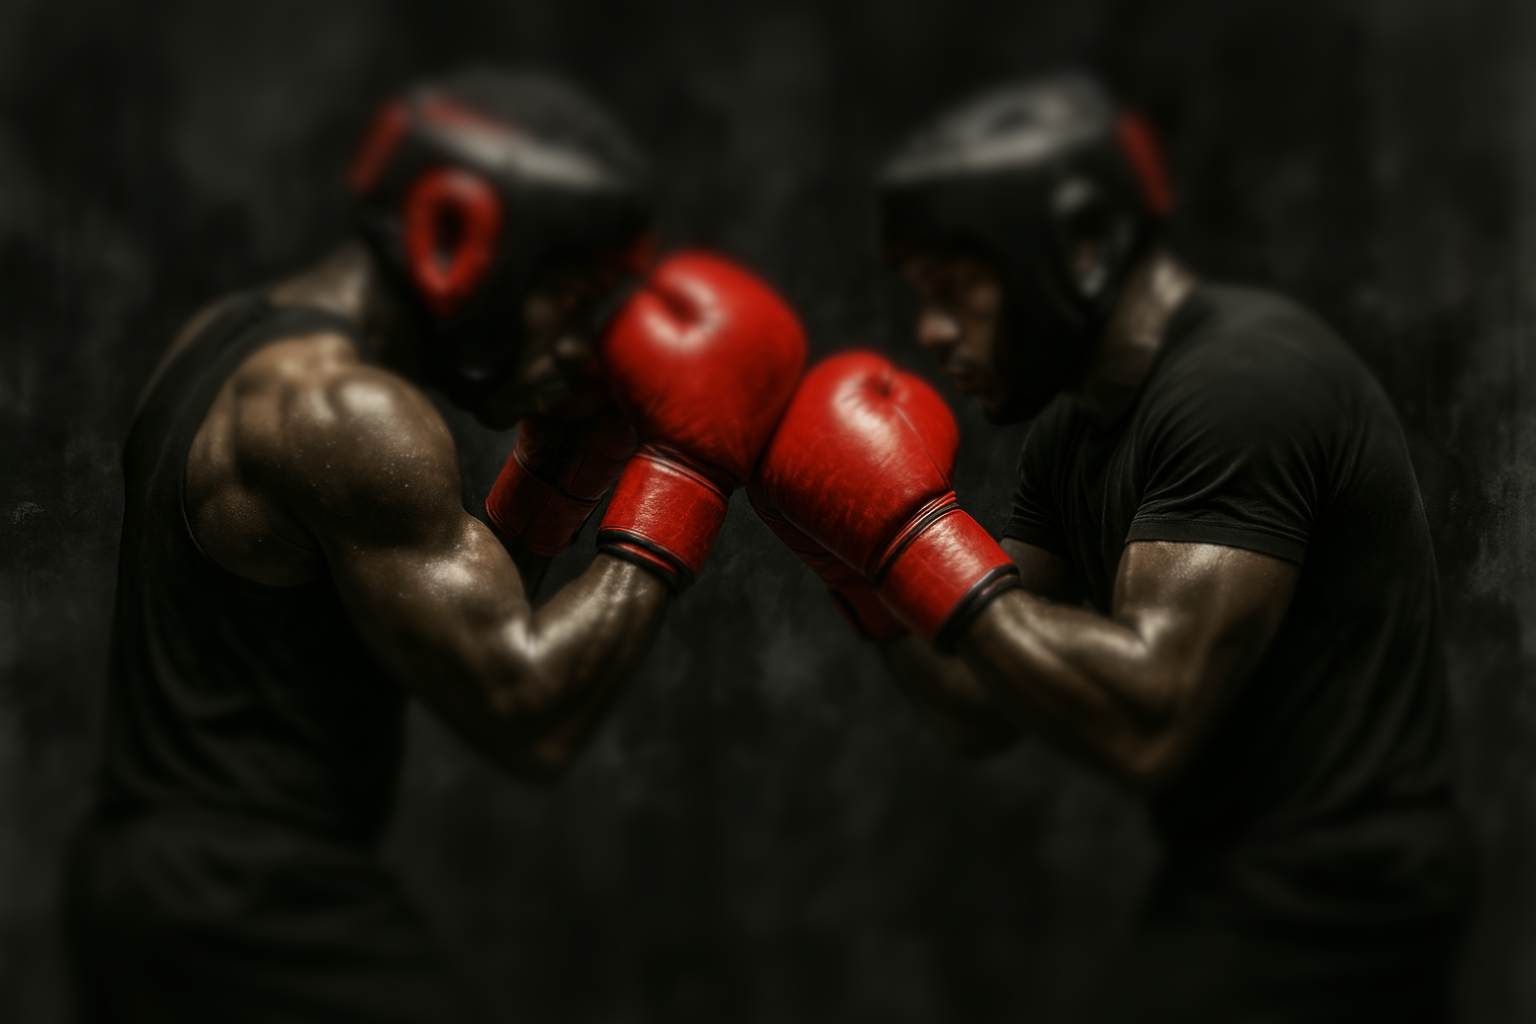
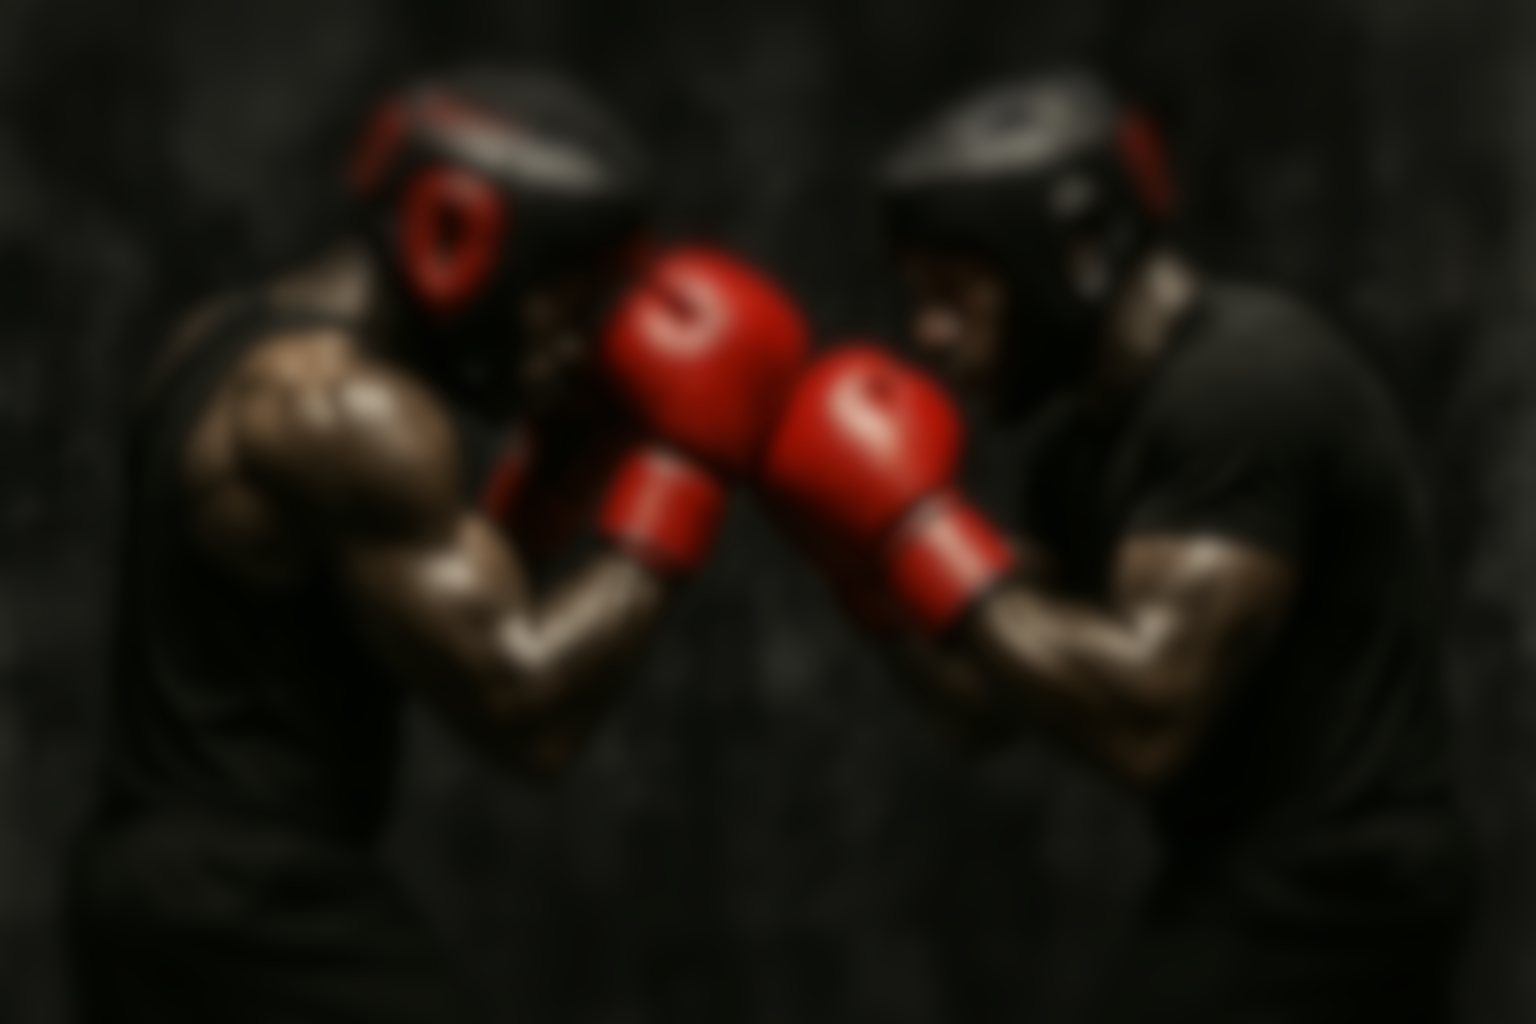
actividades

diff --git a/metal_gym/pages/actividades/yoga.html b/metal_gym/pages/actividades/yoga.html
@@ -5,6 +5,8 @@
     <meta charset="UTF-8">
     <meta name="viewport" content="width=device-width, initial-scale=1.0">
     <title>Metal Gym - Transforma tu Cuerpo</title>
+    <link href="https://cdn.jsdelivr.net/npm/bootstrap@5.3.3/dist/css/bootstrap.min.css" rel="stylesheet">
+    <script src="https://cdn.jsdelivr.net/npm/bootstrap@5.3.3/dist/js/bootstrap.bundle.min.js"></script>
     <link rel="stylesheet" href="/metal_gym/css/general.css"> <!-- Enlace al CSS -->
     <link rel="stylesheet" href="/metal_gym/css/actividades/actividad.css">
 </head>
@@ -27,7 +29,7 @@
     </header>
 
     <!-- Sección Hero de Yoga -->
-    <section class="hero">
+    <section class="hero" style="background-image: url(/metal_gym/images/actividades/yoga/fondo_yoga_blur.png);">
         <div class="contenido">
             <h1>YOGA</h1>
             <div class="info">
@@ -52,15 +54,60 @@
     </section>
 
     <!-- Sección de Clases de Yoga -->
-    <section class="clases">
-        <h2>Nuestras clases</h2>
-        <div class="caroussel">
-            <img src="/metal_gym/images/actividades/yoga/carrusel_yoga_1.png" alt="Clase de Yoga 1">
-            <img src="/metal_gym/images/actividades/yoga/carrusel_yoga_2.png" alt="Clase de Yoga 2">
-            <img src="/metal_gym/images/actividades/yoga/carrusel_yoga_3.png" alt="Clase de Yoga 3">
+    <div
+        style="background-image: url(/metal_gym/images/actividades/yoga/fondo.png); padding: 10% 0%; background-size: cover;">
+        <div class="mx-auto px-3" style="max-width: 900px;">
+            <div class="translucid text-center mb-4">
+                <div>
+                    <h2>Clases de Yoga</h2>
+                    <p>Descubre nuestras instalaciones y horarios para las clases de yoga.</p>
+                </div>
+            </div>
+            <div class="mx-auto carousel-wrapper">
+                <div id="carouselInstalaciones" class="carousel slide" data-bs-ride="carousel">
+                    <div class="carousel-inner">
+                        <div class="carousel-item active">
+                            <img src="/metal_gym/images/actividades/yoga/carrusel_yoga_1.png" class="d-block w-100"
+                                alt="Instalación 1">
+                        </div>
+                        <div class="carousel-item">
+                            <img src="/metal_gym/images/actividades/yoga/carrusel_yoga_2.png" class="d-block w-100"
+                                alt="Instalación 2">
+                        </div>
+                        <div class="carousel-item">
+                            <img src="/metal_gym/images/actividades/yoga/carrusel_yoga_3.png" class="d-block w-100"
+                                alt="Instalación 3">
+                        </div>
+                    </div>
+
+                    <!-- Indicadores -->
+                    <div class="carousel-indicators">
+                        <button type="button" data-bs-target="#carouselInstalaciones" data-bs-slide-to="0"
+                            class="active"></button>
+                        <button type="button" data-bs-target="#carouselInstalaciones" data-bs-slide-to="1"></button>
+                        <button type="button" data-bs-target="#carouselInstalaciones" data-bs-slide-to="2"></button>
+                    </div>
+
+                    <!-- Flechas -->
+                    <!-- Flechas de navegación -->
+                    <button class="carousel-control-prev" type="button" data-bs-target="#carouselInstalaciones"
+                        data-bs-slide="prev">
+                        <span class="carousel-control-prev-icon custom-arrow" aria-hidden="true"></span>
+                        <span class="visually-hidden">Anterior</span>
+                    </button>
+                    <button class="carousel-control-next" type="button" data-bs-target="#carouselInstalaciones"
+                        data-bs-slide="next">
+                        <span class="carousel-control-next-icon custom-arrow" aria-hidden="true"></span>
+                        <span class="visually-hidden">Siguiente</span>
+                    </button>
+                </div>
+                <div class="text-center mt-4">
+                    <a href="/metal_gym/pages/horarios.html" class="btn cta">Ver horarios</a>
+                </div>
+            </div>
         </div>
-        <a href="/metal_gym/pages/pago.html" class="btn">Ver horarios</a>
-    </section>
+    </div>
+
 
     <!-- Footer -->
     <footer>

diff --git a/metal_gym/pages/actividades/bjj.html b/metal_gym/pages/actividades/bjj.html
@@ -5,6 +5,8 @@
     <meta charset="UTF-8">
     <meta name="viewport" content="width=device-width, initial-scale=1.0">
     <title>Metal Gym - Transforma tu Cuerpo</title>
+    <link href="https://cdn.jsdelivr.net/npm/bootstrap@5.3.3/dist/css/bootstrap.min.css" rel="stylesheet">
+    <script src="https://cdn.jsdelivr.net/npm/bootstrap@5.3.3/dist/js/bootstrap.bundle.min.js"></script>
     <link rel="stylesheet" href="/metal_gym/css/general.css"> <!-- Enlace al CSS -->
     <link rel="stylesheet" href="/metal_gym/css/actividades/actividad.css">
 </head>
@@ -27,7 +29,7 @@
     </header>
 
     <!-- Sección Hero de BJJ -->
-    <section class="hero">
+    <section class="hero" style="background-image: url(/metal_gym/images/actividades/bjj/bjj_fondo_blur.png);">
         <div class="contenido">
             <h1>BJJ</h1>
             <div class="info">
@@ -52,15 +54,62 @@
     </section>
 
     <!-- Sección de Clases de BJJ -->
-    <section class="clases">
-        <h2>Nuestras clases</h2>
-        <div class="caroussel">
-            <img src="img/clase1.jpg" alt="Clase de BJJ 1">
-            <img src="img/clase2.jpg" alt="Clase de BJJ 2">
-            <img src="img/clase3.jpg" alt="Clase de BJJ 3">
+    <div
+        style="background-image: url(/metal_gym/images/actividades/bjj/fondo.png); padding: 10% 0%; background-size: cover;">
+        <div class="mx-auto px-3" style="max-width: 900px;">
+            <div class="translucid text-center mb-4">
+                <div>
+                    <h2>Instalaciones de BJJ</h2>
+                    <p>Descubre nuestras instalaciones de BJJ, diseñadas para ofrecerte la mejor experiencia de
+                        entrenamiento.</p>
+                </div>
+            </div>
+            <div class="mx-auto carousel-wrapper">
+                <div id="carouselInstalaciones" class="carousel slide" data-bs-ride="carousel">
+                    <div class="carousel-inner">
+                        <div class="carousel-item active">
+                            <img src="/metal_gym/images/actividades/bjj/caroussel1.png" class="d-block w-100"
+                                alt="Instalación 1">
+                        </div>
+                        <div class="carousel-item">
+                            <img src="/metal_gym/images/actividades/bjj/caroussel2.png" class="d-block w-100"
+                                alt="Instalación 2">
+                        </div>
+                        <div class="carousel-item">
+                            <img src="/metal_gym/images/actividades/bjj/caroussel3.png" class="d-block w-100"
+                                alt="Instalación 3">
+                        </div>
+                    </div>
+
+                    <!-- Indicadores -->
+                    <div class="carousel-indicators">
+                        <button type="button" data-bs-target="#carouselInstalaciones" data-bs-slide-to="0"
+                            class="active"></button>
+                        <button type="button" data-bs-target="#carouselInstalaciones" data-bs-slide-to="1"></button>
+                        <button type="button" data-bs-target="#carouselInstalaciones" data-bs-slide-to="2"></button>
+                    </div>
+
+                    <!-- Flechas -->
+                    <!-- Flechas de navegación -->
+                    <button class="carousel-control-prev" type="button" data-bs-target="#carouselInstalaciones"
+                        data-bs-slide="prev">
+                        <span class="carousel-control-prev-icon custom-arrow" aria-hidden="true"></span>
+                        <span class="visually-hidden">Anterior</span>
+                    </button>
+                    <button class="carousel-control-next" type="button" data-bs-target="#carouselInstalaciones"
+                        data-bs-slide="next">
+                        <span class="carousel-control-next-icon custom-arrow" aria-hidden="true"></span>
+                        <span class="visually-hidden">Siguiente</span>
+                    </button>
+                </div>
+                <div class="text-center mt-4">
+                    <a href="/metal_gym/pages/horarios.html" class="btn cta">Ver horarios</a>
+                </div>
+            </div>
         </div>
-        <a href="/metal_gym/pages/horarios.html" class="btn">Ver horarios</a>
-    </section>
+    </div>
+
+
 
 
     <!-- Footer -->

diff --git a/metal_gym/css/actividades/actividad.css b/metal_gym/css/actividades/actividad.css
@@ -1,13 +1,37 @@
 .hero {
-    background-size: cover;
-    background-position: center;  /* Centra la imagen de fondo */
+    background-image: url("/metal_gym/images/actividades/yoga/fondo_yoga_blur.png");
+    background-size: cover;               /* Mantiene proporción */
+    background-position: bottom center;   /* Alinea el fondo por abajo */
+    background-repeat: no-repeat;
+
+    min-height: 100vh;                    /* O lo que necesites para el diseño */
+    position: relative;                   /* Por si añades contenido posicionado */
+    overflow: visible;                    /* Asegura que no se oculte la parte que sobresale por arriba */
+    padding-bottom: 20%;
 }
+
+.carousel-centrado {
+    /* Para que el contenedor ocupe toda la altura de la ventana */
+    min-height: 100vh; 
+    background-size: cover;
+    background-position: center; /* Si quieres centrar la imagen de fondo */
+    
+    /* Flexbox para centrar vertical y horizontalmente */
+    display: flex;
+    align-items: center;
+    justify-content: center;
+    
+    /* Elimina o reduce el padding que empuja el contenido hacia arriba */
+    padding: 0; 
+    margin: 0;
+}
+
 
 .info {
     display: flex;
     gap: 20px;
     justify-content: center;
-    align-items: stretch;
+    align-items: center;
 }
 
 .texto h2 {
@@ -48,8 +72,8 @@
     justify-content: center;
     align-items: center;
 }
-
-.translucid p {
+.translucid > p,
+.translucid > * {
     background: rgba(0, 0, 0, 0.25);
     backdrop-filter: blur(15px);
     border-radius: 20px;
@@ -63,7 +87,7 @@
     transition: transform 0.3s ease, box-shadow 0.3s ease;
 }
 
-.translucid p:hover {
+.translucid > *:hover {
     transform: translateY(-2px);
     box-shadow: 0 0 40px rgba(255, 0, 0, 0.05);
 }
@@ -126,7 +150,7 @@
 
 
 /* Móviles grandes (pequeño son 480) */
-@media (max-width: 768px) { 
+@media (max-width: 1080px) { 
     .info {
         flex-direction: column;
         align-items: center;

diff --git a/metal_gym/pages/actividades/boxeo.html b/metal_gym/pages/actividades/boxeo.html
@@ -54,9 +54,16 @@
     </section>
 
     <!-- Carrusel centrado -->
-    <div
-        style="background-image: url(/metal_gym/images/actividades/boxeo/fondo.png); padding: 10% 0%; background-size: cover;">
+    <div class="carousel-centrado align-items-center justify-content-center"
+        style="min-height: 100vh; background-image: url(/metal_gym/images/actividades/boxeo/fondo.png);">
         <div class="mx-auto px-3" style="max-width: 900px;">
+            <div class="translucid text-center mb-4">
+                <div>
+                    <h2>Instalaciones de Boxeo</h2>
+                    <p>Descubre nuestras instalaciones de boxeo, diseñadas para ofrecerte la mejor experiencia de
+                        entrenamiento.</p>
+                </div>
+            </div>
             <div class="mx-auto carousel-wrapper">
                 <div id="carouselInstalaciones" class="carousel slide" data-bs-ride="carousel">
                     <div class="carousel-inner">
